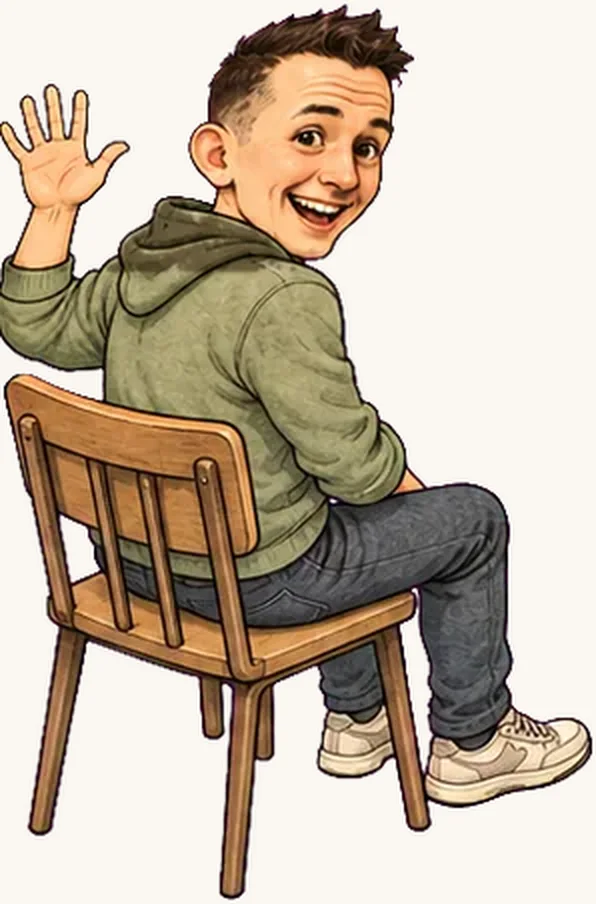
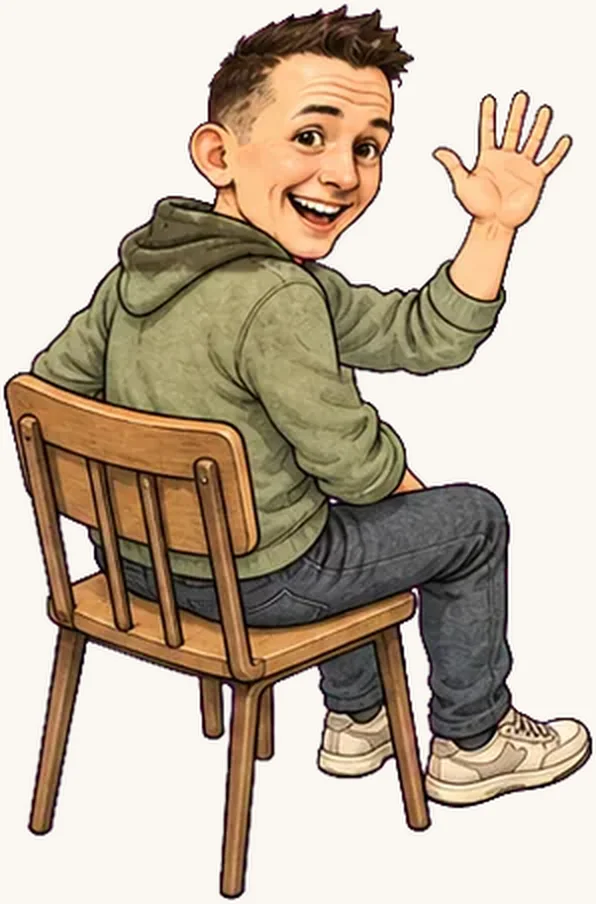
fix(room): the wave, third try: both hands right of his head (he sits twisted towards the camera), waving beside his face and the other properly attached on his lap

diff --git a/components/room/tools/fixes.py b/components/room/tools/fixes.py
@@ -17,13 +17,14 @@ HERE = Path(os.environ.get("ROOM_ART", Path(__file__).parent / "art"))
 # sheet: [(fix name, crop box in the sheet, polygon in crop pixels, feather px)]
 FIXES = {
     "peter-sheet": [
-        # The wave pose had both arms on his left shoulder (the waving one and one resting on his
-        # lap) and none on his right. peter-wave-fix-2.png is that cell (1100,500)-(1440,1010),
-        # upscaled 3x to 1024x1536 and repainted so he waves with his right arm and keeps the left
-        # one on his lap (prompts/peter-wave-fix-2.txt). The repaint lines up with the original to
-        # the pixel and only the arms changed, so the band across both shoulders is taken whole.
-        # (peter-wave-fix.png, which removed the lap arm instead, was the wrong fix.)
-        ("peter-wave-fix-2", (1100, 500, 1440, 1010), [(0, 40), (340, 40), (340, 240), (0, 240)], 6),
+        # The wave pose. He sits twisted towards the camera, so both hands are to the right of his
+        # head: the waving one beside his face and the other resting on his lap. The original had
+        # the lap hand growing out of the waving shoulder. peter-wave-fix-3.png is that cell
+        # (1100,500)-(1440,1010), upscaled 3x to 1024x1536: the lap arm from a repaint that drew it
+        # properly attached (peter-wave-fix-2.png, which also wrongly moved the wave to the other
+        # arm), with the original waving arm (via peter-wave-fix.png) put back. All three line up
+        # with the original to the pixel, so only the band across the shoulders is taken.
+        ("peter-wave-fix-3", (1100, 500, 1440, 1010), [(0, 40), (340, 40), (340, 240), (0, 240)], 6),
     ],
 }
 

diff --git a/.claude/skills/pocket-room-art/SKILL.md b/.claude/skills/pocket-room-art/SKILL.md
@@ -39,8 +39,10 @@ re-explore a rejected direction unless he asks.
   name. Projects whose name explains nothing get their two tags in grey after it.
 - **Favicon**: mini-Peter shouting under the Fushimi Inari torii, on torii orange, matching his X
   avatar (a shouting selfie at the torii).
-- Anatomy: check that each arm comes from its own shoulder. The wave pose once had both arms on one
-  shoulder, and the first fix removed the wrong one.
+- Anatomy: check that each arm comes from its own shoulder, and ask Peter how the pose should read.
+  The wave pose took three tries: the lap hand grew out of the waving shoulder, the first fix
+  removed the lap hand, the second moved the wave to the wrong arm. He sits twisted towards the
+  camera, so both hands are right of his head.
 - Rejected along the way: a riso/halftone two-ink print look, "live trick" HTML illustrations,
   screenshots on mini devices, scrapbook field notes, full-page manga repaints, and the room going
   dark at night.
@@ -53,7 +55,7 @@ re-explore a rejected direction unless he asks.
 | View through the window | `view.webp` | `art/view.png` | `prompts/view.txt` | `mock-screen.png`, `plate-a.png` | `build.py` |
 | Trains | `train-shinkansen.webp`, `train-local.webp` | `art/trains.png` (on magenta) | `prompts/trains.txt` | `mock-screen.png` | `build.py` |
 | Peter's six poses | `peter-*.webp` | `art/peter-sheet.png` (on magenta) | `prompts/peter.txt` | `mock-screen.png`, `art/peter-character-ink.jpg`, `art/peter-photo.png` | `build.py` |
-| Peter's wave, arms fixed (waves with his right, left hand on his lap; `peter-wave-fix.png` was a wrong first try) | `peter-wave.webp` | `art/fixes/peter-wave-fix-2.png` | `prompts/peter-wave-fix-2.txt` | `art/fixes/peter-wave-crop.png` | `fixes.py` (inside `build.py`) |
+| Peter's wave, arms fixed (twisted towards the camera, both hands right of his head: waving beside his face, the other on his lap; combined from `peter-wave-fix.png` and `peter-wave-fix-2.png`, see `fixes.py`) | `peter-wave.webp` | `art/fixes/peter-wave-fix-3.png` | `prompts/peter-wave-fix.txt`, `prompts/peter-wave-fix-2.txt` | `art/fixes/peter-wave-crop.png` | `fixes.py` (inside `build.py`) |
 | Notebooks, cat, mug, printed part | `notebook-*.webp`, `cat.webp`, `part.webp` | `art/props.png` (on magenta) | `prompts/props.txt` | `art/plate-b.png` | `build.py` |
 | App-screen object cards | `card-<id>.webp` | `art/cards/<id>.png` (on magenta) | `prompts/card-<id>.txt` | plate crop (`cards.py refs`), `plate-b.png` | `cards.py` |
 | Project cards | `projects/<slug>.webp` and `projects/<slug>-pencil.webp` | `art/projects/<slug>.png` (on paper) | `prompts/project-<slug>.txt` | the real screenshot or photo in `art/projects/refs/` (+ `art/plate-b.png` as the style) | `projects.py` |
